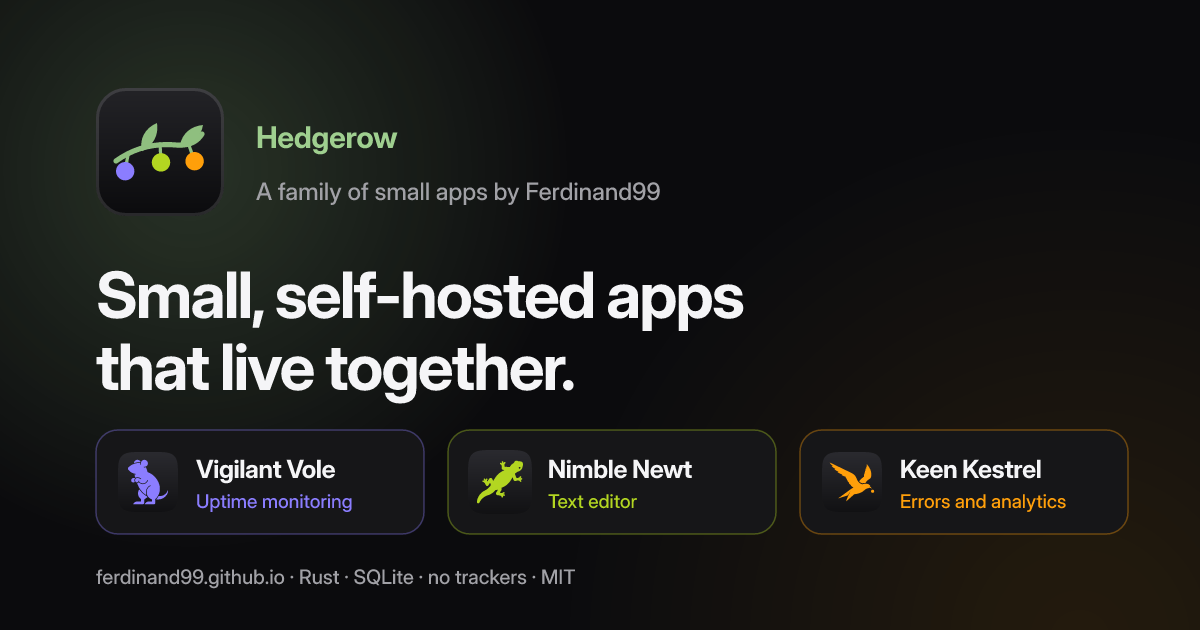
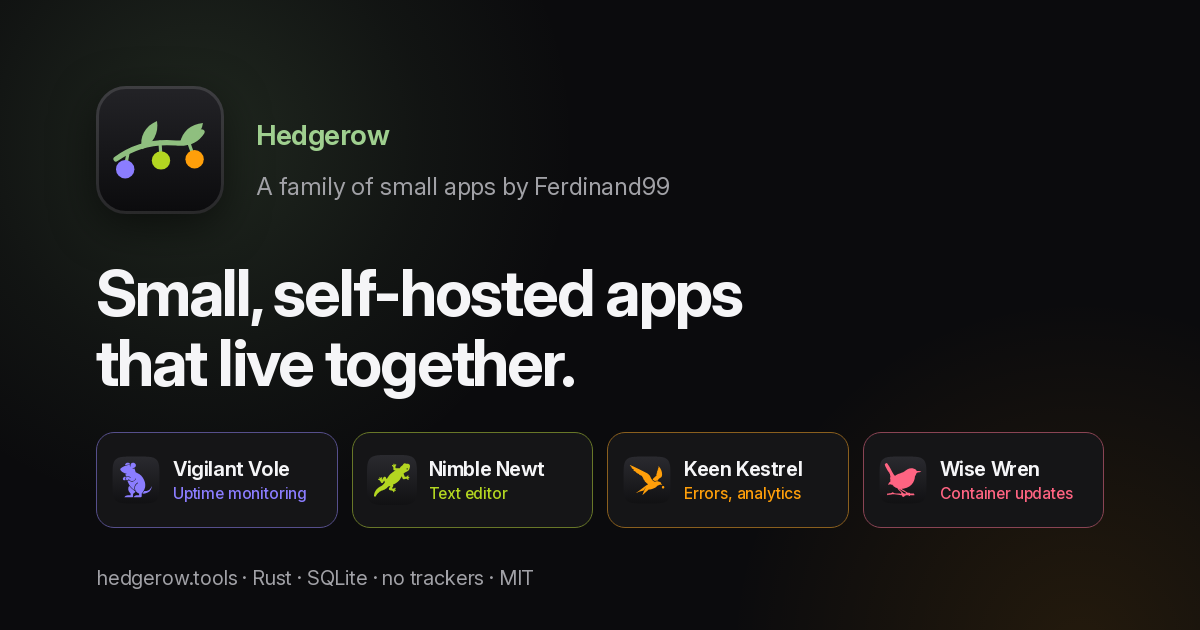
docs(site): add Wise Wren and mark Keen Kestrel as released
Add a Wise Wren card (in design) with its icon, website and GitHub links,
and lay the four app cards out two by two. Mention Wren in the family
intro, meta descriptions, structured data, the vole-kit note, the footer
and the README, and show all four apps in the OG image. Keen Kestrel's
card now says early release: error tracking is out as v0.1, analytics
come in v0.2.

diff --git a/site/index.html b/site/index.html
@@ -10,7 +10,7 @@
     <title>Hedgerow — small, self-hosted apps that live together</title>
     <meta
       name="description"
-      content="Hedgerow is a small family of apps you run on your own machines: Vigilant Vole for uptime monitoring, Nimble Newt for editing text and Keen Kestrel for error tracking and analytics. Rust, SQLite, no trackers, MIT licensed."
+      content="Hedgerow is a small family of apps you run on your own machines: Vigilant Vole for uptime monitoring, Nimble Newt for editing text, Keen Kestrel for error tracking and analytics, and Wise Wren for container updates. Rust, SQLite, no trackers, MIT licensed."
     />
     <script>document.documentElement.classList.add("js");</script>
     <link rel="canonical" href="https://hedgerow.tools/" />
@@ -26,18 +26,18 @@
     <meta property="og:title" content="Hedgerow — small, self-hosted apps that live together" />
     <meta
       property="og:description"
-      content="Vigilant Vole, Nimble Newt and Keen Kestrel: small apps for your own machines, built in Rust, with no trackers."
+      content="Vigilant Vole, Nimble Newt, Keen Kestrel and Wise Wren: small apps for your own machines, built in Rust, with no trackers."
     />
     <meta property="og:image" content="https://hedgerow.tools/og-image.png" />
     <meta property="og:image:type" content="image/png" />
     <meta property="og:image:width" content="1200" />
     <meta property="og:image:height" content="630" />
-    <meta property="og:image:alt" content="The Hedgerow mark, a sprig with three berries in violet, lime and amber, next to the tagline “Small, self-hosted apps that live together” and the icons of Vigilant Vole, Nimble Newt and Keen Kestrel." />
+    <meta property="og:image:alt" content="The Hedgerow mark, a sprig with three berries in violet, lime and amber, next to the tagline “Small, self-hosted apps that live together” and the icons of Vigilant Vole, Nimble Newt, Keen Kestrel and Wise Wren." />
     <meta name="twitter:card" content="summary_large_image" />
     <meta name="twitter:title" content="Hedgerow — small, self-hosted apps that live together" />
     <meta
       name="twitter:description"
-      content="Vigilant Vole, Nimble Newt and Keen Kestrel: small apps for your own machines, built in Rust, with no trackers."
+      content="Vigilant Vole, Nimble Newt, Keen Kestrel and Wise Wren: small apps for your own machines, built in Rust, with no trackers."
     />
     <meta name="twitter:image" content="https://hedgerow.tools/og-image.png" />
     <link rel="preload" href="fonts/InterVariable.woff2" as="font" type="font/woff2" crossorigin />
@@ -48,7 +48,7 @@
         "@type": "WebSite",
         "name": "Hedgerow",
         "url": "https://hedgerow.tools/",
-        "description": "A small family of self-hosted services and native tools: Vigilant Vole, Nimble Newt and Keen Kestrel.",
+        "description": "A small family of self-hosted services and native tools: Vigilant Vole, Nimble Newt, Keen Kestrel and Wise Wren.",
         "image": "https://hedgerow.tools/og-image.png",
         "author": { "@type": "Person", "name": "Ferdinand99", "url": "https://github.com/Ferdinand99" }
       }
@@ -123,11 +123,12 @@
         <div class="wrap">
           <header class="section-head center reveal">
             <p class="eyebrow">The family</p>
-            <h2 class="headline" id="apps-title">Three animals, one hedge.</h2>
+            <h2 class="headline" id="apps-title">Four animals, one hedge.</h2>
             <p class="sub">
               A hedgerow is a living fence of shrubs and trees, and home to a crowd of animals. The
-              vole lives at its foot, the kestrel hunts along it and the newt hides in its damp
-              corners. Each Hedgerow app is one of them, with a job of its own.
+              vole lives at its foot, the kestrel hunts along it, the newt hides in its damp corners
+              and the wren nests in its tangles. Each Hedgerow app is one of them, with a job of its
+              own.
             </p>
           </header>
 
@@ -179,21 +180,43 @@
             <li class="card app app-kestrel reveal d2">
               <div class="app-head">
                 <img class="app-icon" src="assets/apps/keen-kestrel.svg" width="56" height="56" alt="" />
-                <span class="pill status-warning"><span class="dot"></span>In development</span>
+                <span class="pill status-up"><span class="dot"></span>Early release</span>
               </div>
               <h3 class="app-name">Keen Kestrel</h3>
               <p class="app-kind">Error tracking and analytics</p>
               <p class="app-pitch">
                 Self-hosted error tracking that works with the official Sentry SDKs, and analytics
-                for your apps and sites without cookies or stored IP addresses. Nothing to install
-                yet; follow along on GitHub.
+                for your apps and sites without cookies or stored IP addresses. Error tracking is out
+                as v0.1, a Docker image; analytics come in v0.2.
               </p>
-              <p class="app-runs"><span class="app-runs-label">Will run on</span> Docker · Unraid · Proxmox · Linux</p>
+              <p class="app-runs"><span class="app-runs-label">Runs on</span> Docker today · Unraid, Proxmox and Linux planned</p>
               <div class="app-links">
                 <a class="btn btn-sm" href="https://hedgerow.tools/Keen-Kestrel/">Website<span class="vh"> of Keen Kestrel</span></a>
                 <a class="btn btn-ghost btn-sm" href="https://github.com/Ferdinand99/Keen-Kestrel">
                   <svg class="gh-mark" aria-hidden="true"><use href="#gh"></use></svg>
                   <span>GitHub<span class="vh">: Keen Kestrel</span></span>
+                </a>
+              </div>
+            </li>
+
+            <li class="card app app-wren reveal d3">
+              <div class="app-head">
+                <img class="app-icon" src="assets/apps/wise-wren.svg" width="56" height="56" alt="" />
+                <span class="pill status-warning"><span class="dot"></span>In design</span>
+              </div>
+              <h3 class="app-name">Wise Wren</h3>
+              <p class="app-kind">Container updates</p>
+              <p class="app-pitch">
+                Keeps your Docker containers up to date without surprises: it updates only what you
+                approve, with a snapshot first, a health check after and a rollback if it fails.
+                Nothing to install yet; follow along on GitHub.
+              </p>
+              <p class="app-runs"><span class="app-runs-label">Will run on</span> Unraid first · any Docker host planned</p>
+              <div class="app-links">
+                <a class="btn btn-sm" href="https://hedgerow.tools/Wise-Wren/">Website<span class="vh"> of Wise Wren</span></a>
+                <a class="btn btn-ghost btn-sm" href="https://github.com/Ferdinand99/Wise-Wren">
+                  <svg class="gh-mark" aria-hidden="true"><use href="#gh"></use></svg>
+                  <span>GitHub<span class="vh">: Wise Wren</span></span>
                 </a>
               </div>
             </li>
@@ -326,7 +349,8 @@
           </div>
           <p class="diagram-note reveal">
             Nimble Newt is a desktop app, so it shares the design and the principles rather than the
-            server foundation.
+            server foundation. Wise Wren, still in design, will build on vole-kit too, and open
+            maintenance windows in Vigilant Vole while it updates your containers.
           </p>
         </div>
       </section>
@@ -402,6 +426,7 @@
             <li><a href="https://hedgerow.tools/Vigilant-Vole/">Vigilant Vole</a></li>
             <li><a href="https://hedgerow.tools/Nimble-Newt/">Nimble Newt</a></li>
             <li><a href="https://hedgerow.tools/Keen-Kestrel/">Keen Kestrel</a></li>
+            <li><a href="https://hedgerow.tools/Wise-Wren/">Wise Wren</a></li>
             <li><a href="https://github.com/Ferdinand99">GitHub</a></li>
             <li><a href="https://github.com/Ferdinand99/Ferdinand99.github.io/blob/main/LICENSE">MIT license</a></li>
           </ul>

diff --git a/site/styles.css b/site/styles.css
@@ -142,6 +142,10 @@
   --app: #ff9f0a;
   --app-text: light-dark(#8f5200, #ff9f0a);
 }
+.app-wren {
+  --app: #ff6482;
+  --app-text: light-dark(#b3123a, #ff6482);
+}
 
 /* Status mapping — one class sets the trio every status-aware component reads. */
 .status-up {
@@ -710,10 +714,11 @@ code.nw {
   color: var(--faint);
 }
 
-/* The family: one card per app, glowing in the app's colour */
+/* The family: one card per app, glowing in the app's colour. Four apps sit
+   two by two. */
 .apps {
   display: grid;
-  grid-template-columns: repeat(3, minmax(0, 1fr));
+  grid-template-columns: repeat(2, minmax(0, 1fr));
   gap: var(--sp-4);
   margin: 0;
   padding: 0;
@@ -1132,7 +1137,6 @@ code.nw {
 
 /* Responsive ---------------------------------------------------------------- */
 @media (max-width: 1000px) {
-  .apps,
   .links {
     grid-template-columns: minmax(0, 1fr);
     max-width: 640px;
@@ -1218,6 +1222,11 @@ code.nw {
 }
 
 @media (max-width: 760px) {
+  .apps {
+    grid-template-columns: minmax(0, 1fr);
+    max-width: 640px;
+    margin-inline: auto;
+  }
   .diagram {
     grid-template-columns: minmax(0, 1fr);
     max-width: 320px;

diff --git a/README.md b/README.md
@@ -10,25 +10,26 @@
 
 Hedgerow is the family name of a few small apps you run on your own machines: self-hosted services
 for your server and fast native tools for your desktop. A hedgerow is the habitat these animals
-share: the vole lives at its foot, the kestrel hunts along it and the newt hides in its damp
-corners. Each app is one of them, named *Adjective + Animal*.
+share: the vole lives at its foot, the kestrel hunts along it, the newt hides in its damp corners
+and the wren nests in its tangles. Each app is one of them, named *Adjective + Animal*.
 
 | App | What it does | Status | Links |
 |---|---|---|---|
 | **Vigilant Vole** | Self-hosted uptime monitoring, an Uptime Kuma alternative | Released | [Website](https://hedgerow.tools/Vigilant-Vole/) · [GitHub](https://github.com/Ferdinand99/Vigilant-Vole) |
 | **Nimble Newt** | Fast, modern text editor for Windows and macOS | Released | [Website](https://hedgerow.tools/Nimble-Newt/) · [GitHub](https://github.com/Ferdinand99/Nimble-Newt) |
-| **Keen Kestrel** | Self-hosted, Sentry-compatible error tracking and cookieless analytics | In development | [Website](https://hedgerow.tools/Keen-Kestrel/) · [GitHub](https://github.com/Ferdinand99/Keen-Kestrel) |
+| **Keen Kestrel** | Self-hosted, Sentry-compatible error tracking and cookieless analytics | Early release (v0.1) | [Website](https://hedgerow.tools/Keen-Kestrel/) · [GitHub](https://github.com/Ferdinand99/Keen-Kestrel) |
+| **Wise Wren** | Keeps Docker containers up to date without surprises: approve, snapshot, health check, rollback | In design | [Website](https://hedgerow.tools/Wise-Wren/) · [GitHub](https://github.com/Ferdinand99/Wise-Wren) |
 
 What they share: built in Rust, SQLite for the services, privacy first with no trackers, one
 Apple-inspired design system, 26 interface languages, easy installs on Docker, Unraid, Proxmox and
 Linux (or Windows and macOS for the editor), and the MIT license. Vigilant Vole and Keen Kestrel
-are moving onto a shared foundation crate, `vole-kit`.
+are moving onto a shared foundation crate, `vole-kit`, and Wise Wren will build on it too.
 
 ## This repository
 
 This is the GitHub user site for [@Ferdinand99](https://github.com/Ferdinand99), served at the root
 of `https://hedgerow.tools/`. The apps' own sites live in their repositories and are served
-under their paths (`/Vigilant-Vole/`, `/Nimble-Newt/`, `/Keen-Kestrel/`).
+under their paths (`/Vigilant-Vole/`, `/Nimble-Newt/`, `/Keen-Kestrel/`, `/Wise-Wren/`).
 
 - `site/` is the whole website: plain HTML, CSS and a small script, no build step. It uses the same
   design tokens and components as the app sites, a self-hosted Inter font, a strict Content
